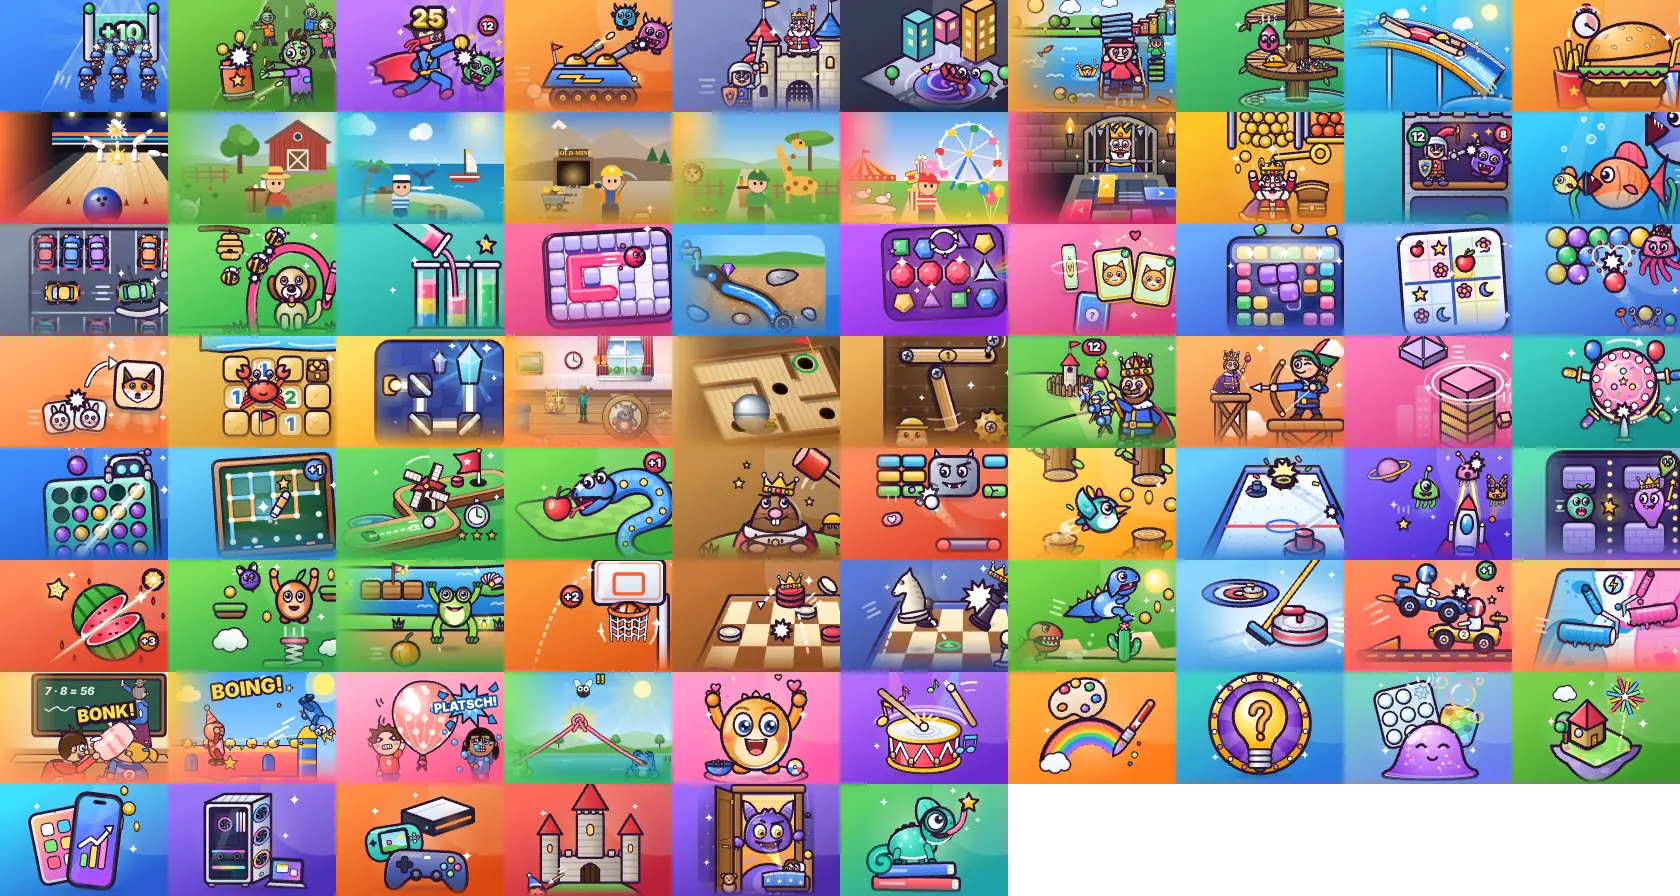
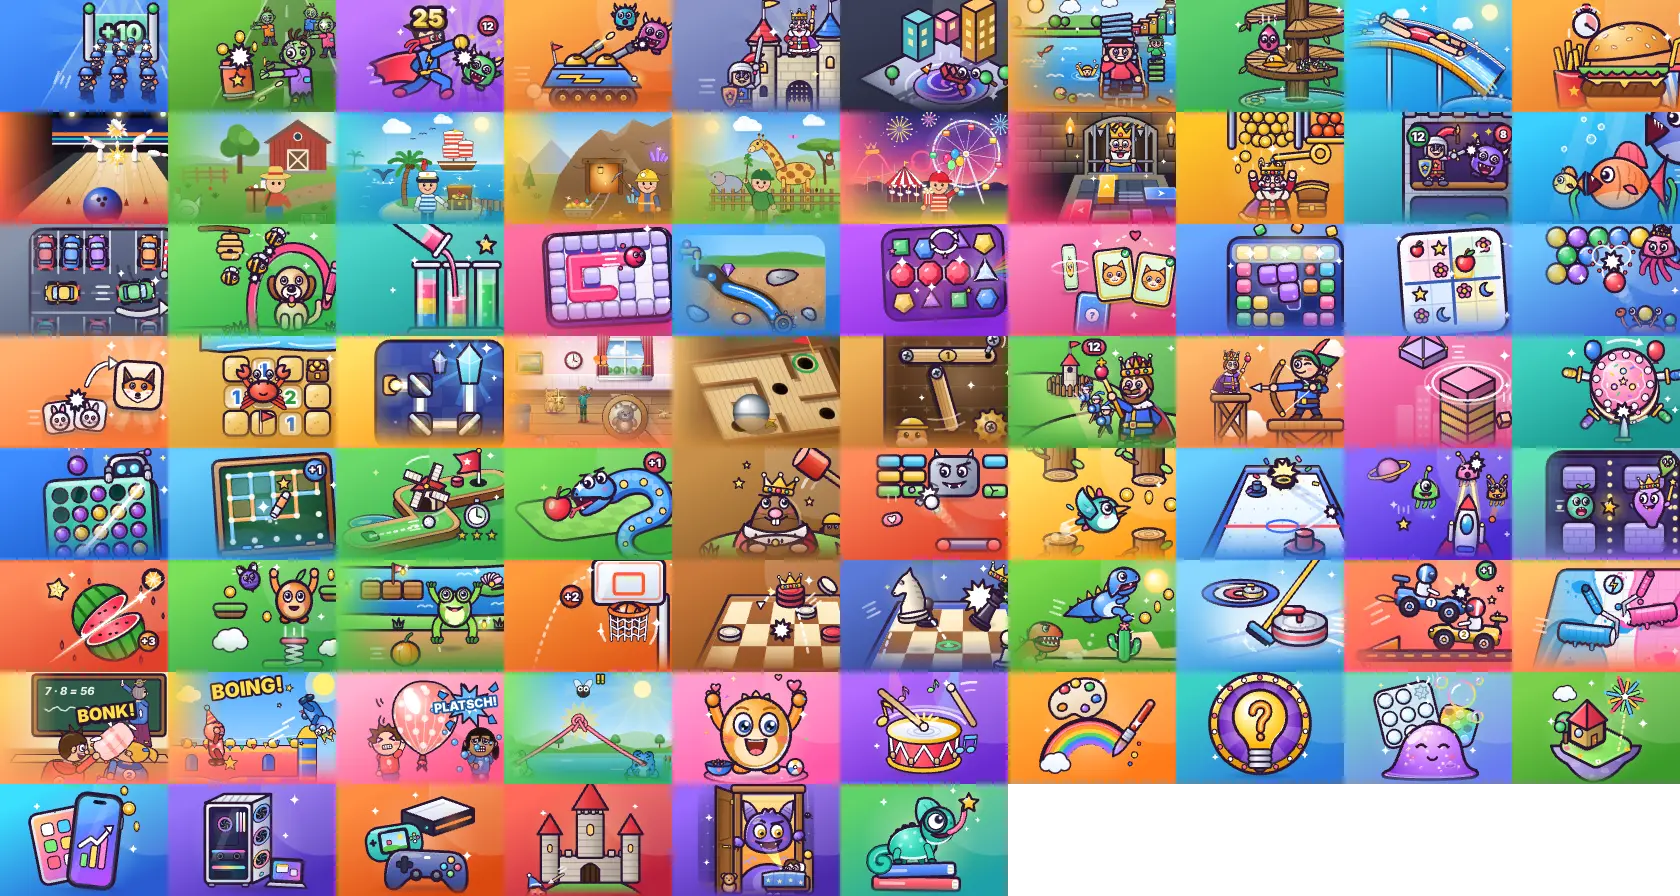
Zockwerk: neue Kartenbilder, VER zmh-13
Claude-Session: https://claude.ai/code/session_01G3KNfGniXS6at168NqcQ3M

diff --git a/zockwerk/sw.js b/zockwerk/sw.js
@@ -3,7 +3,7 @@
    Wichtig (13.11.2026): Das Netz wird mit cache: 'no-cache' gefragt – sonst liefert der Browser bis zu 10 Minuten lang die alte Datei
    aus seinem eigenen Zwischenspeicher (GitHub Pages erlaubt 10 Minuten), und die als App installierte Seite zeigt noch die alte Fassung.
    Der Server antwortet bei unveränderten Dateien nur kurz „unverändert“ (304), das kostet kaum Daten. */
-const VER = 'zmh-12';
+const VER = 'zmh-13';
 const FILES = ['./', 'index.html', 'css/app.css', 'js/icons.js', 'js/code.js', 'js/spiele.js', 'js/app.js', 'daten/beitraege.js', 'daten/fehler.js', 'daten/ideen.js',
   'daten/fragen.js', 'daten/helfer.js', 'daten/artikel.js', 'manifest.webmanifest', 'img/kacheln.webp', 'img/icon-192.png', 'img/icon-512.png'];
 self.addEventListener('install', e => {
